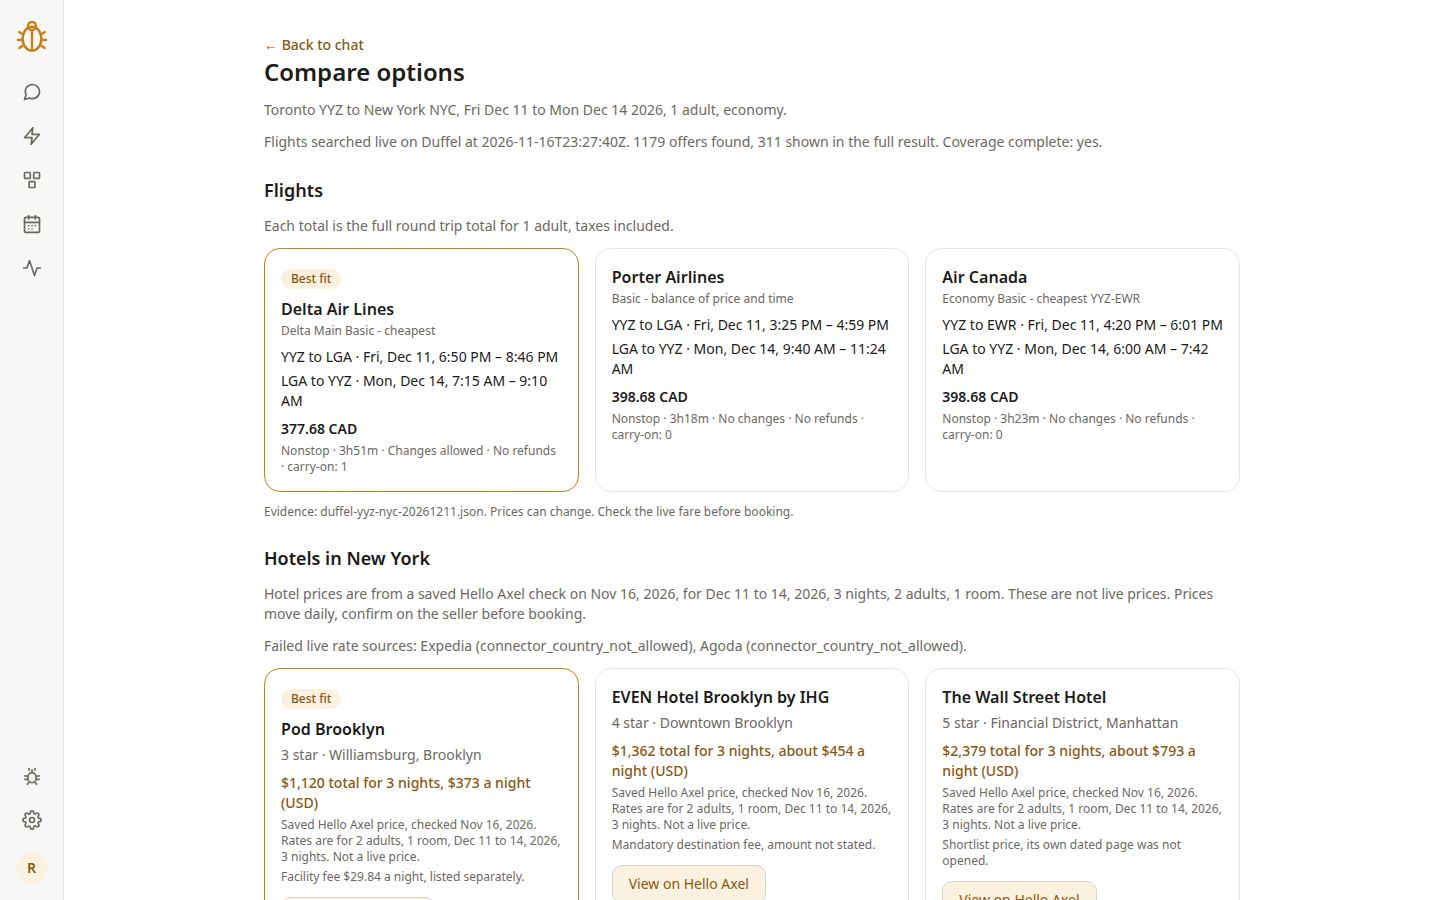
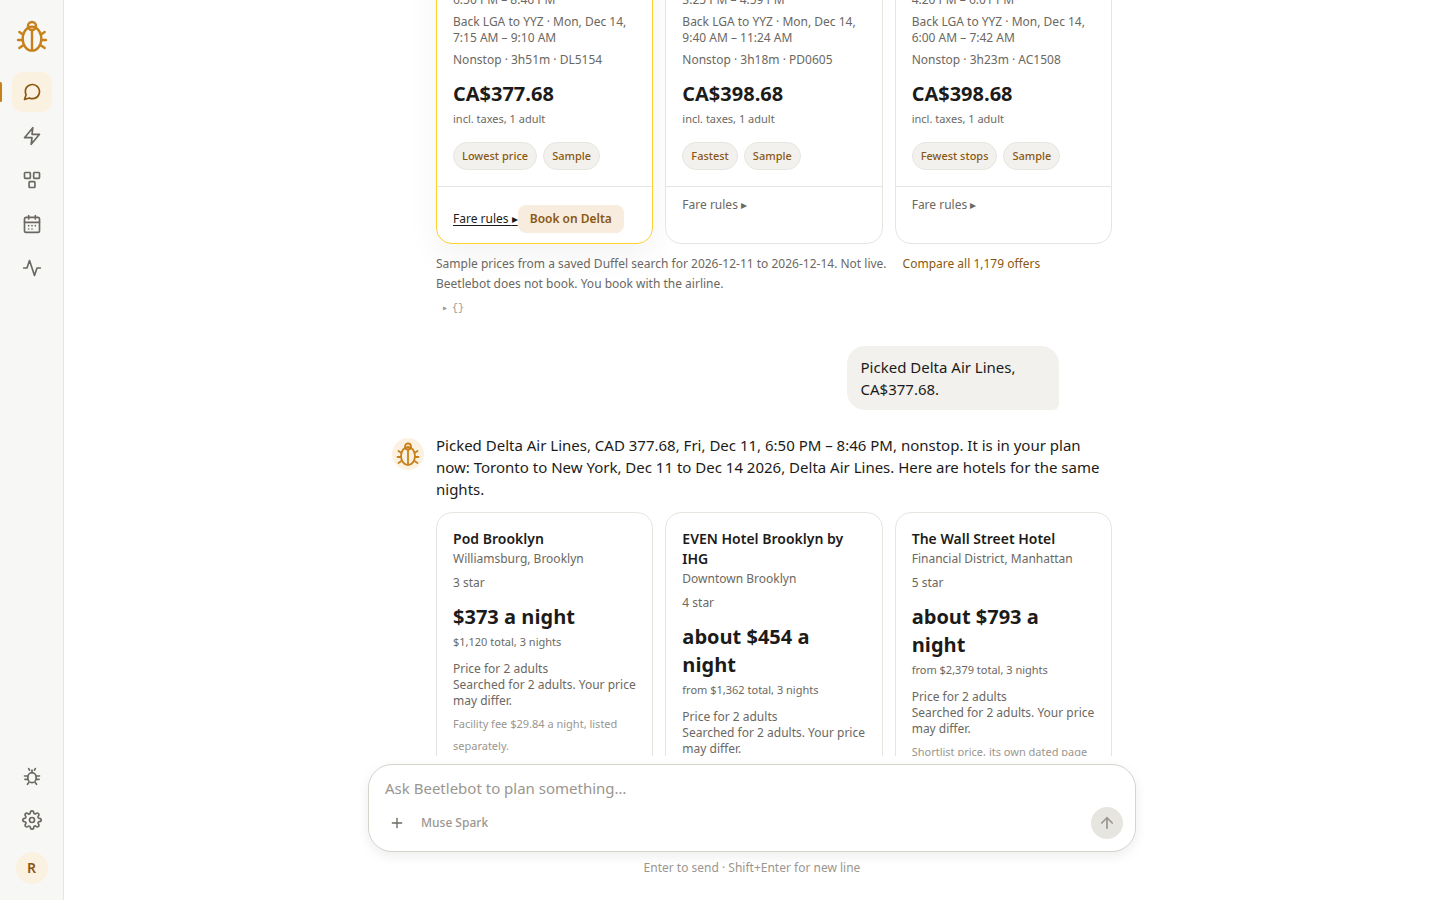
docs(readme): refresh demo poster and compare cell with light in-chat shots
The demo poster was the old dark design; replace it with a fresh light-UI
shot of the flight cards in the thread, and say plainly in the caption
that the video itself still shows the previous dark design. The Showcase
compare cell showed the standalone /compare page; replace it with an
in-chat shot of the cards with Delta picked, and rewrite the caption so
the compare reads as happening in chat, tap to pick.

diff --git a/README.md b/README.md
@@ -40,7 +40,7 @@
 
 [![31-second demo of Beetlebot planning a New York weekend](docs/showcase/demo-poster.png)](docs/showcase/demo-480p.mp4)
 
-> A 31-second screen recording of the real app with real model replies (Muse Spark), Nov 17, 2026. Ask for a weekend in New York. Beetlebot shows flight cards side by side with prices, and you tap Delta. It then shows hotel cards, answers a dinner question from a chip, and you send the itinerary request. The recording ends there. It does not show the itinerary, a calendar hold, or an approval step. Flight prices come from a saved Duffel search and are labeled "Sample" on screen. Hotel prices are saved Hello Axel rates checked Nov 16, 2026. 480p.
+> A 31-second screen recording of the real app with real model replies (Muse Spark), Nov 17, 2026. The recording shows the previous dark design; the app now uses the light theme shown in the screenshots below. Ask for a weekend in New York. Beetlebot shows flight cards side by side with prices, and you tap Delta. It then shows hotel cards, answers a dinner question from a chip, and you send the itinerary request. The recording ends there. It does not show the itinerary, a calendar hold, or an approval step. Flight prices come from a saved Duffel search and are labeled "Sample" on screen. Hotel prices are saved Hello Axel rates checked Nov 16, 2026. 480p.
 
 ---
 
@@ -76,10 +76,10 @@ The demo above covers steps 1 and 2 and ends as the itinerary request is sent. S
 | ![Activity grouped by day](docs/showcase/activity-light.png) | ![Chat on phone](docs/showcase/chat-phone-light.png) | ![Packs on phone](docs/showcase/packs-phone-light.png) |
 | Every agent action grouped by Today, Yesterday, and date. | Chat is the main screen, with the bottom tab bar on phone. | Installed and Popular packs, each with a visual icon. |
 
-| Autopilots | Settings | Compare options |
+| Autopilots | Settings | Compare in chat |
 |---|---|---|
-| ![Autopilots list](docs/showcase/autopilots-light.png) | ![Settings](docs/showcase/settings-light.png) | ![Compare options page](docs/showcase/compare-light.png) |
-| Recurring plans Beetlebot runs for you. 2 active here, each with an On switch. | Profile, approvals, spend cap, and the model in use: Muse Spark, meta/muse-spark-1.3. | The full compare page, flights and hotels side by side. Flights from the Duffel search on Nov 16, 2026; hotel prices from a saved Hello Axel check, not live. |
+| ![Autopilots list](docs/showcase/autopilots-light.png) | ![Settings](docs/showcase/settings-light.png) | ![Compare in chat](docs/showcase/compare-light.png) |
+| Recurring plans Beetlebot runs for you. 2 active here, each with an On switch. | Profile, approvals, spend cap, and the model in use: Muse Spark, meta/muse-spark-1.3. | The compare happens in chat, not on a separate page. Flight cards appear in the thread, side by side, and you tap the one you want. Flights from the Duffel search on Nov 16, 2026; hotel prices from a saved Hello Axel check, not live. |
 
 Screenshots from the real app, Nov 17, 2026. Flight prices are from the Duffel search on Nov 16, 2026, and will differ now.
 
